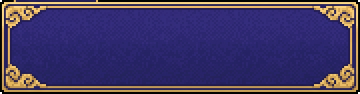
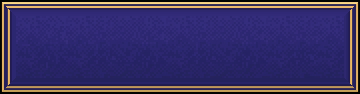
版155 枠の四隅の模様を外す・戦いの札を内側へ

diff --git a/src/scenes/FieldScene.js b/src/scenes/FieldScene.js
@@ -2,37 +2,37 @@
 // 上 y0〜420 に地図（1マス32ドット・旅の者が真ん中、しおりと加わった仲間が1歩ずつうしろに続く）／下の窓に十字キーと「はなす」「どうぐ」
 // 話す・店・宿の文と選びも下の窓（そのあいだ十字キーは隠す）
 // 旅の状態は registry の 'game'（計算は src/field/game.js）。地図が変わる（町に入る・出る）たびに この場面を始め直す
-import { EPISODES } from '../data/episodes.js?v=154';
-import { ITEMS, PRICE, itemNote } from '../data/items.js?v=154';
-import { FISH, PRIZES, ROD_PRICE, BITE_WINDOW_MS, WAIT_MS, rollFish, zoneStart, inZone, rentRod, addCatch, exchange } from '../field/fishing.js?v=154';
-import { RIDERS } from '../data/nomaoi_assets.js?v=154';
-import { FLAGS, FLAG_PRIZES, ENTRY_PRICE, ROUND_MS, CATCH_P, newRace, stepRace, racePts, flagX, fallP, enterRace, addFlags, exchangeFlag } from '../field/nomaoi.js?v=154';
-import { TILE } from '../field/tiles.js?v=154';
-import { GROUNDS, OBJECTS, fieldLook, townLook } from '../field/look.js?v=154';
-import { preloadKit, makeWindow, makeButton, makePad, paginate } from '../ui/kit.js?v=154';
-import { preloadPeople, frameOf, ORIGIN_Y } from '../field/sprites.js?v=154';
-import { TOWNS, TOWN_OF, TOWN_CARD_NAME, townCardName } from '../field/towns.js?v=154';
-import { KANBAN, kanbanAt } from '../field/kanban.js?v=154';
-import { AILMENTS, badgesOf, hpColor } from '../field/ailments.js?v=154';
-import { smooth, BRUSH_FONT } from '../ui/scroll.js?v=154';
+import { EPISODES } from '../data/episodes.js?v=155';
+import { ITEMS, PRICE, itemNote } from '../data/items.js?v=155';
+import { FISH, PRIZES, ROD_PRICE, BITE_WINDOW_MS, WAIT_MS, rollFish, zoneStart, inZone, rentRod, addCatch, exchange } from '../field/fishing.js?v=155';
+import { RIDERS } from '../data/nomaoi_assets.js?v=155';
+import { FLAGS, FLAG_PRIZES, ENTRY_PRICE, ROUND_MS, CATCH_P, newRace, stepRace, racePts, flagX, fallP, enterRace, addFlags, exchangeFlag } from '../field/nomaoi.js?v=155';
+import { TILE } from '../field/tiles.js?v=155';
+import { GROUNDS, OBJECTS, fieldLook, townLook } from '../field/look.js?v=155';
+import { preloadKit, makeWindow, makeButton, makePad, paginate } from '../ui/kit.js?v=155';
+import { preloadPeople, frameOf, ORIGIN_Y } from '../field/sprites.js?v=155';
+import { TOWNS, TOWN_OF, TOWN_CARD_NAME, townCardName } from '../field/towns.js?v=155';
+import { KANBAN, kanbanAt } from '../field/kanban.js?v=155';
+import { AILMENTS, badgesOf, hpColor } from '../field/ailments.js?v=155';
+import { smooth, BRUSH_FONT } from '../ui/scroll.js?v=155';
 import {
   mapRows, terrainAt, canWalk, tileNameAt, DELTA, BOSS_AT, WALL_OPENED_BY, SAVE_KEY, maxOf,
   enterTown, leaveTown, buy, stayInn, save, autoSaveAfterBoss, useItem, walkStep, encounterAt,
   purify, kuyo, returnStolen, HARAI_PRICE, KUYO_PRICE, revive, revivePrice, NAME, nameOf, isField, crossAt, WALL_QUEST_LINES,
-} from '../field/game.js?v=154';
-import { membersOf } from '../battle/levels.js?v=154';
-import { COMPANIONS, LEARN_AFTER_LOSS, KUNOICHI } from '../data/companions.js?v=154';
-import { ICON_IDS } from '../data/icons.js?v=154';
-import { FACE_IDS, KUNOICHI_FACES } from '../data/faces.js?v=154';
-import { EXTRA_LOOKS } from '../data/look_assets.js?v=154';
-import { mapPointOf } from '../field/mapcard.js?v=154';
-import { FISHING_ICON_IDS } from '../data/icons_fishing.js?v=154';
-import { makeRng } from '../battle/rules.js?v=154';
-import { newRun, tapRun, stepRun, runPos, beamX, LANES as KW_LANES, STRIKES as KW_STRIKES, TIME_MS as KW_TIME } from '../field/kagewatari.js?v=154';
-import { EQUIP, SLOTS, SLOT_NAME, equipNote, START_EQUIP, diffNote, diffDown, canWear } from '../data/equip.js?v=154';
-import { buyEquip, partyView, soakOnsen, ONSEN_PRICE, prayGojinka, afterKagewatari } from '../field/game.js?v=154';
-import { sfx, startBgm, stopBgm, playJingle, jingleSeconds } from '../audio/chip.js?v=154';
-import { newRound, tapAt, roundEnd as roundEndAt, roundPts as chochinPts, enterRound, addLanterns, CHOCHIN_PRIZES, exchangeChochin, ENTRY_PRICE as CHOCHIN_PRICE, LANTERNS as CHOCHIN_LANTERNS, BEAT_MS as CHOCHIN_BEAT, OK_MS as CHOCHIN_OK } from '../field/chochin.js?v=154';
+} from '../field/game.js?v=155';
+import { membersOf } from '../battle/levels.js?v=155';
+import { COMPANIONS, LEARN_AFTER_LOSS, KUNOICHI } from '../data/companions.js?v=155';
+import { ICON_IDS } from '../data/icons.js?v=155';
+import { FACE_IDS, KUNOICHI_FACES } from '../data/faces.js?v=155';
+import { EXTRA_LOOKS } from '../data/look_assets.js?v=155';
+import { mapPointOf } from '../field/mapcard.js?v=155';
+import { FISHING_ICON_IDS } from '../data/icons_fishing.js?v=155';
+import { makeRng } from '../battle/rules.js?v=155';
+import { newRun, tapRun, stepRun, runPos, beamX, LANES as KW_LANES, STRIKES as KW_STRIKES, TIME_MS as KW_TIME } from '../field/kagewatari.js?v=155';
+import { EQUIP, SLOTS, SLOT_NAME, equipNote, START_EQUIP, diffNote, diffDown, canWear } from '../data/equip.js?v=155';
+import { buyEquip, partyView, soakOnsen, ONSEN_PRICE, prayGojinka, afterKagewatari } from '../field/game.js?v=155';
+import { sfx, startBgm, stopBgm, playJingle, jingleSeconds } from '../audio/chip.js?v=155';
+import { newRound, tapAt, roundEnd as roundEndAt, roundPts as chochinPts, enterRound, addLanterns, CHOCHIN_PRIZES, exchangeChochin, ENTRY_PRICE as CHOCHIN_PRICE, LANTERNS as CHOCHIN_LANTERNS, BEAT_MS as CHOCHIN_BEAT, OK_MS as CHOCHIN_OK } from '../field/chochin.js?v=155';
 
 // 景品の窓（釣り＝小名浜の釣り番／旗＝雲雀ヶ原の世話役）。同じ窓を 点の名前と景品の表だけ替えて使う
 const PRIZE_SHOPS = {

diff --git a/src/data/episodes.js b/src/data/episodes.js
@@ -1,29 +1,29 @@
 // 遊ぶ順（話数＝順路の順・本人 10/1）。題の画面は先頭の話を出し、勝つと「つぎの話へ」で次へ進む
 // 序章：第一話 松川様 → 第二話 賢沼の大うなぎ → 第三話 蛇岸淵（淵の主）→ 第四話 龍燈
-import { MATSUKAWA } from './matsukawa.js?v=154';
-import { KASHINUMA } from './kashinuma.js?v=154';
-import { JAGAN } from './jagan.js?v=154';
-import { RYUTO } from './ryuto.js?v=154';
+import { MATSUKAWA } from './matsukawa.js?v=155';
+import { KASHINUMA } from './kashinuma.js?v=155';
+import { JAGAN } from './jagan.js?v=155';
+import { RYUTO } from './ryuto.js?v=155';
 // 1章 相馬（10/3）：第五話 ザルカブリ山 → 第六話 大悲山の大蛇 → 第七話 手長明神 → 第八話 虎捕山の白狼（橘墨虎）
-import { ZARUKABURI } from './zarukaburi.js?v=154';
-import { DAIHISAN } from './daihisan.js?v=154';
-import { TENAGA } from './tenaga.js?v=154';
-import { SUMITORA } from './sumitora.js?v=154';
+import { ZARUKABURI } from './zarukaburi.js?v=155';
+import { DAIHISAN } from './daihisan.js?v=155';
+import { TENAGA } from './tenaga.js?v=155';
+import { SUMITORA } from './sumitora.js?v=155';
 // 2章 県北（10/4）：第九話 飴買い幽霊 → 第十話 ご坊狐 → 第十一話 ムカデとオロチ → 第十二話 へっぴり嫁 → 第十三話 安達ヶ原の鬼婆
-import { AMEKAI } from './amekai.js?v=154';
-import { GOBOU } from './gobou.js?v=154';
-import { MUKADE } from './mukade.js?v=154';
-import { HEPPIRI } from './heppiri.js?v=154';
-import { ONIBABA } from './onibaba.js?v=154';
+import { AMEKAI } from './amekai.js?v=155';
+import { GOBOU } from './gobou.js?v=155';
+import { MUKADE } from './mukade.js?v=155';
+import { HEPPIRI } from './heppiri.js?v=155';
+import { ONIBABA } from './onibaba.js?v=155';
 // 3章 県中・県南（10/4）：第十四話 蛇骨地蔵 → 第十五話 三春駒 → 第十六話 大多鬼丸 → 第十七話 和泉式部と猫 → 第十八話 天狗のいけにえ
 //   → 第十九話 狸森の託善和尚 → 第二十話 カッパのわび証文 → 第二十一話 安珍と清姫（本人 10/4「戦わない3話を戦う形で」＝8話とも戦う）
-import { JAKOTSU } from './jakotsu.js?v=154';
-import { MIHARUGOMA } from './miharugoma.js?v=154';
-import { OTAKIMARU } from './otakimaru.js?v=154';
-import { NEKONAKI } from './nekonaki.js?v=154';
-import { TENGU } from './tengu.js?v=154';
-import { TAKUZEN } from './takuzen.js?v=154';
-import { KAPPA } from './kappa.js?v=154';
-import { KIYOHIME } from './kiyohime.js?v=154';
+import { JAKOTSU } from './jakotsu.js?v=155';
+import { MIHARUGOMA } from './miharugoma.js?v=155';
+import { OTAKIMARU } from './otakimaru.js?v=155';
+import { NEKONAKI } from './nekonaki.js?v=155';
+import { TENGU } from './tengu.js?v=155';
+import { TAKUZEN } from './takuzen.js?v=155';
+import { KAPPA } from './kappa.js?v=155';
+import { KIYOHIME } from './kiyohime.js?v=155';
 
 export const EPISODES = [MATSUKAWA, KASHINUMA, JAGAN, RYUTO, ZARUKABURI, DAIHISAN, TENAGA, SUMITORA, AMEKAI, GOBOU, MUKADE, HEPPIRI, ONIBABA, JAKOTSU, MIHARUGOMA, OTAKIMARU, NEKONAKI, TENGU, TAKUZEN, KAPPA, KIYOHIME];

diff --git a/src/scenes/BattleScene.js b/src/scenes/BattleScene.js
@@ -1,16 +1,16 @@
-import { AILMENTS, badgesOf, hpColor, partyStateLines } from '../field/ailments.js?v=154';
-import { EPISODES } from '../data/episodes.js?v=154';
-import { revealAt } from '../ui/reveal.js?v=154';
-import { createBattle, resolveTurn, makeRng } from '../battle/rules.js?v=154';
-import { chooseCommands } from '../battle/auto.js?v=154';
-import { itemNote } from '../data/items.js?v=154';
-import { unlock, isUnlocked, sfx, startBgm, stopBgm, toggleMute, isMuted, playVoice, stopVoice, voiceLevel } from '../audio/chip.js?v=154';
-import { STORY_FILES } from '../data/story_assets.js?v=154';
-import { TITLE_HOLD, TITLE_NO_VOICE } from './_title_consts.js?v=154';
-import { CUTIN_FILES, CUTIN_V } from '../data/cutin_assets.js?v=154';
-import { drawScroll, fitScroll, smooth, BRUSH_FONT } from '../ui/scroll.js?v=154';
-import { preloadKit, makeWindow, makeButton, paginate } from '../ui/kit.js?v=154';
-import { battleData, afterWin, afterLose, afterForcedLose, zakoData, afterZako, BOSS_MON, duelData, afterDuel } from '../field/game.js?v=154';
+import { AILMENTS, badgesOf, hpColor, partyStateLines } from '../field/ailments.js?v=155';
+import { EPISODES } from '../data/episodes.js?v=155';
+import { revealAt } from '../ui/reveal.js?v=155';
+import { createBattle, resolveTurn, makeRng } from '../battle/rules.js?v=155';
+import { chooseCommands } from '../battle/auto.js?v=155';
+import { itemNote } from '../data/items.js?v=155';
+import { unlock, isUnlocked, sfx, startBgm, stopBgm, toggleMute, isMuted, playVoice, stopVoice, voiceLevel } from '../audio/chip.js?v=155';
+import { STORY_FILES } from '../data/story_assets.js?v=155';
+import { TITLE_HOLD, TITLE_NO_VOICE } from './_title_consts.js?v=155';
+import { CUTIN_FILES, CUTIN_V } from '../data/cutin_assets.js?v=155';
+import { drawScroll, fitScroll, smooth, BRUSH_FONT } from '../ui/scroll.js?v=155';
+import { preloadKit, makeWindow, makeButton, paginate } from '../ui/kit.js?v=155';
+import { battleData, afterWin, afterLose, afterForcedLose, zakoData, afterZako, BOSS_MON, duelData, afterDuel } from '../field/game.js?v=155';
 
 // 1つの戦いの画面を、話ごとのデータ（src/data/<話>.js・並びは episodes.js）で使い回す
 // 絵は Gemini で描いて art_src/prep_art.py で整えた物（敵も背景も2倍で見せる）。データの art に置き場と光の色
@@ -260,7 +260,7 @@ export class BattleScene extends Phaser.Scene {
     // 1人ぶんは幅78ドット：名前・HP・術を縦に3段。窓の高さは2人のときと同じ
     const four = this.state.allies.length > 2;
     this.state.allies.forEach((a, i) => {
-      const x = four ? 24 + i * 79 : 28 + i * 164; // 和風の枠の金の線の内側
+      const x = four ? 28 + i * 78 : 30 + i * 164; // 和風の枠の金の線の内側（10/4 夜 本人「旅の者・術が枠に被って見えにくい」＝24→28）
       if (!four) {
         this.nameTexts[a.id] = this.add.text(x, 20, a.name, style(SIZE.name));
         this.statusTexts[a.id] = {

diff --git a/src/field/game.js b/src/field/game.js
@@ -1,18 +1,18 @@
 // 旅の状態（居場所・文・持ち物・仲間の HP・元に戻したボス・記録）。画面と切り離す＝Node で試験する
 // ここの関数は game を書き換えずに、新しい game を返す
-import { IWAKI_ROWS } from './iwaki_map.js?v=154';
-import { kanbanAt } from './kanban.js?v=154';
-import { SOMA_ROWS } from './soma_map.js?v=154';
-import { KENPOKU_ROWS } from './kenpoku_map.js?v=154';
-import { KENCHU_ROWS } from './kenchu_map.js?v=154';
-import { FIELD_TERRAIN, TOWN_TERRAIN } from './tiles.js?v=154';
-import { TOWNS, TOWN_ENTRY } from './towns.js?v=154';
-import { ITEMS, PRICE, OLD_ITEM } from '../data/items.js?v=154';
-import { ZAKO, ZAKO_TELL } from '../data/zako.js?v=154';
-import { statsAt, levelFor, EXP_TO, PARTY_IDS, ALL_IDS, MAX_PARTY, membersOf, statsWithGear } from '../battle/levels.js?v=154';
-import { COMPANIONS, COMPANION_SPELLS, JOIN_AFTER, LEARN_AFTER_LOSS, RETIRED_COMPANIONS, BUSHI, KUNOICHI } from '../data/companions.js?v=154';
-import { EQUIP, START_EQUIP, canWear } from '../data/equip.js?v=154';
-import { becomeKunoichi } from './kagewatari.js?v=154';
+import { IWAKI_ROWS } from './iwaki_map.js?v=155';
+import { kanbanAt } from './kanban.js?v=155';
+import { SOMA_ROWS } from './soma_map.js?v=155';
+import { KENPOKU_ROWS } from './kenpoku_map.js?v=155';
+import { KENCHU_ROWS } from './kenchu_map.js?v=155';
+import { FIELD_TERRAIN, TOWN_TERRAIN } from './tiles.js?v=155';
+import { TOWNS, TOWN_ENTRY } from './towns.js?v=155';
+import { ITEMS, PRICE, OLD_ITEM } from '../data/items.js?v=155';
+import { ZAKO, ZAKO_TELL } from '../data/zako.js?v=155';
+import { statsAt, levelFor, EXP_TO, PARTY_IDS, ALL_IDS, MAX_PARTY, membersOf, statsWithGear } from '../battle/levels.js?v=155';
+import { COMPANIONS, COMPANION_SPELLS, JOIN_AFTER, LEARN_AFTER_LOSS, RETIRED_COMPANIONS, BUSHI, KUNOICHI } from '../data/companions.js?v=155';
+import { EQUIP, START_EQUIP, canWear } from '../data/equip.js?v=155';
+import { becomeKunoichi } from './kagewatari.js?v=155';
 
 export const SAVE_KEY = 'fq-save-v1';
 

diff --git a/src/main.js b/src/main.js
@@ -1,15 +1,15 @@
-import { TitleScene } from './scenes/TitleScene.js?v=154';
-import { BattleScene } from './scenes/BattleScene.js?v=154';
-import { FieldScene, FIELD_TEXT } from './scenes/FieldScene.js?v=154';
-import { ZAKO, ZAKO_TELL } from './data/zako.js?v=154';
-import { HARAI } from './field/game.js?v=154';
-import { EQUIP } from './data/equip.js?v=154';
-import { EPISODES } from './data/episodes.js?v=154';
-import { unlock, isUnlocked } from './audio/chip.js?v=154';
-import { askTerms } from './ui/terms.js?v=154';
-import { watchUpdates, newerOnLaunch, reloadTo } from './ui/update.js?v=154';
-import { showLoading, preloadImages } from './ui/loading.js?v=154';
-import { PRELOAD_ASSETS } from './data/preload_assets.js?v=154';
+import { TitleScene } from './scenes/TitleScene.js?v=155';
+import { BattleScene } from './scenes/BattleScene.js?v=155';
+import { FieldScene, FIELD_TEXT } from './scenes/FieldScene.js?v=155';
+import { ZAKO, ZAKO_TELL } from './data/zako.js?v=155';
+import { HARAI } from './field/game.js?v=155';
+import { EQUIP } from './data/equip.js?v=155';
+import { EPISODES } from './data/episodes.js?v=155';
+import { unlock, isUnlocked } from './audio/chip.js?v=155';
+import { askTerms } from './ui/terms.js?v=155';
+import { watchUpdates, newerOnLaunch, reloadTo } from './ui/update.js?v=155';
+import { showLoading, preloadImages } from './ui/loading.js?v=155';
+import { PRELOAD_ASSETS } from './data/preload_assets.js?v=155';
 
 // 本人 10/2「松川と戦うまで、BGMが無い」＝iPhone は指を置いた瞬間（pointerdown）では音の出口を開けず、指を離した瞬間・クリックで開く
 // ⇒ 画面のどこを さわっても、離した瞬間に音の出口を開け直す（題の画面で一度さわった後だけ。止まっていれば鳴りだす）

diff --git a/src/field/kanban.js b/src/field/kanban.js
@@ -2,10 +2,10 @@
 // 絵＝assets/tiles/o_kanban_<種類>.png（art_src/prep_kanban.py・板は無地）。名前は地図の上に毛筆の字で重ね、看板に向いて「はなす」と短い説明
 // 置き場＝目印（町・地図の口の字、または座標）の隣の草地（.）を、左→右→左下→右下→下→左上→右上→上 の順に探す
 // 説明は確かめた事だけ（10/4 ネットで確かめた：中村城跡に相馬中村神社／小高城は相馬氏の約280年の居城・1611年に中村へ／磐城平城＝平藩／鵜ノ尾埼灯台＝松川浦の岬／霞ヶ城公園＝石垣・さくら名所100選）。三春の滝桜は 3章の地図ができたら足す
-import { IWAKI_ROWS } from './iwaki_map.js?v=154';
-import { SOMA_ROWS } from './soma_map.js?v=154';
-import { KENPOKU_ROWS } from './kenpoku_map.js?v=154';
-import { KENCHU_ROWS } from './kenchu_map.js?v=154';
+import { IWAKI_ROWS } from './iwaki_map.js?v=155';
+import { SOMA_ROWS } from './soma_map.js?v=155';
+import { KENPOKU_ROWS } from './kenpoku_map.js?v=155';
+import { KENCHU_ROWS } from './kenchu_map.js?v=155';
 
 const ROWS = { field: IWAKI_ROWS, soma: SOMA_ROWS, kenpoku: KENPOKU_ROWS, kenchu: KENCHU_ROWS };
 export const KANBAN_KINDS = ['shiro', 'meisho', 'hana', 'michi'];

diff --git a/src/data/miharugoma.js b/src/data/miharugoma.js
@@ -3,7 +3,7 @@
 // 大滝根山の大多鬼丸との戦で押されたとき、どこからか百頭の馬が駆けこんで勝たせ、消えた。箱の木馬は どれも汗でぬれていた。村人が偲んで彫ったのが三春駒
 // ⚠原典には寺の名も僧の名も無い（清水寺・延鎮は工房の由来書き）＝「りっぱな お寺の お坊さま」。⚠田村麻呂がこの地へ来た文献は無い（田村市）＝伝説として語る
 // ゲームでは、忘れられて黒いもやに呑まれ、三春の野を暴れまわる木の馬の群れ。弱点＝「お坊さまの木箱」（馬たちの帰る所）。勝つと三春駒の術（大多鬼丸の弱点）を授かり、大滝根山への もやが晴れる
-import { BASIC_ITEMS } from './basic_items.js?v=154';
+import { BASIC_ITEMS } from './basic_items.js?v=155';
 
 export const MIHARUGOMA = {
   art: {

diff --git a/src/data/otakimaru.js b/src/data/otakimaru.js
@@ -3,7 +3,7 @@
 // 大滝根山の鬼穴を根城にした大多鬼丸を、坂上田村麻呂が討つ。白鳥の導きで洞穴に追い込まれ、大多鬼丸は果てた。田村麻呂は その武勇を惜しみ、首を仙台平に丁重に葬った
 // ⭐市は二つの見方を並べる（賊・鬼の首領／七里ヶ沢を平和に治め、朝廷の求めを断った豪族）＝悪鬼として一方的に描かない。⭐「田村麻呂がこの地へ来た文献は無い」（市）＝伝説として語る
 // ゲームでは、忘れられて黒いもやに呑まれた大滝根山の主。弱点＝三春で授かる「三春駒」（第十五話・田村麻呂を助けた木の馬百頭）
-import { BASIC_ITEMS } from './basic_items.js?v=154';
+import { BASIC_ITEMS } from './basic_items.js?v=155';
 
 export const OTAKIMARU = {
   art: {

diff --git a/src/data/daihisan.js b/src/data/daihisan.js
@@ -5,7 +5,7 @@
 // ゲームでは、忘れの力でよみがえった大蛇。弱点＝「鉄の釘」。助っ人＝玉都（本人 10/3「戦いの中で琵琶を弾く助っ人」）＝語って弱点が明かされると
 // 琵琶が鳴り、大蛇は聞き入って2回動けない。その後も ときどき琵琶で止める
 // 絵＝10/3 届いた（2noh3h 大蛇・xf4m56 封じられた姿）。必殺技の挿絵＝描き直し（貼り付け・使用済み_絵／大悲山_大雨_描き直し_貼り付け.jpg。1回目 vxa4qk は封じられた姿と山高帽で描かれた）。背景も届いた。プロンプト＝art_src/Geminiプロンプト_1章相馬.md
-import { BASIC_ITEMS } from './basic_items.js?v=154';
+import { BASIC_ITEMS } from './basic_items.js?v=155';
 
 export const DAIHISAN = {
   art: {

diff --git a/src/data/heppiri.js b/src/data/heppiri.js
@@ -5,7 +5,7 @@
 // 必殺技は「すごいおなら」（本人 10/1「おなら」→10/4「おおきな屁」→同日「すごいおなら」・おならの効果音・くらうと全員しばらく気絶）。⛔下品に振れさせない（音・臭いを書かない。可笑しみは真面目に語ることから）・子ども向けの絵柄に寄せない
 // ゲームでは、忘れられて黒いもやに呑まれた嫁。弱点＝「迎えの言葉」（遠慮は いらんよ）。倒すと元に戻り、二本松への道の大岩を吹き飛ばす
 // 絵＝まだ（仮に道中の娘の絵）。プロンプト＝art_src/Geminiプロンプト_2章県北.md
-import { BASIC_ITEMS } from './basic_items.js?v=154';
+import { BASIC_ITEMS } from './basic_items.js?v=155';
 
 export const HEPPIRI = {
   art: {

diff --git a/src/scenes/TitleScene.js b/src/scenes/TitleScene.js
@@ -1,7 +1,7 @@
-import { unlock, startBgm, stopBgm, sfx } from '../audio/chip.js?v=154';
-import { BRUSH_FONT, smooth } from '../ui/scroll.js?v=154';
-import { newGame, load, SAVE_KEY } from '../field/game.js?v=154';
-import { preloadKit, makeWindow } from '../ui/kit.js?v=154';
+import { unlock, startBgm, stopBgm, sfx } from '../audio/chip.js?v=155';
+import { BRUSH_FONT, smooth } from '../ui/scroll.js?v=155';
+import { newGame, load, SAVE_KEY } from '../field/game.js?v=155';
+import { preloadKit, makeWindow } from '../ui/kit.js?v=155';
 
 // 題の画面（本人 10/1「さわってはじめる、から音楽が欲しい」）
 // ⭐10/3 本人「アイコンクリック後、『はじめから』『つづきから』を加えてほしい」＝下に2つの札。押した札で始まる（1回で）

diff --git a/src/data/kappa.js b/src/data/kappa.js
@@ -3,7 +3,7 @@
 // 馬のしっぽにぶら下がっていたカッパの大将を地べたに叩きつけて捕らえ、「人や馬にいたずらをしない」「大水を出して田畑を荒らさない」を石に証文として書かせて許した。
 // 証文は丘に埋めて杉を植え、不開（あかず）神社と名づけた＝いまの赤津神社の由来。⚠頭の皿・きゅうりは この原典に無い
 // ゲームでは、忘れられて黒いもやに呑まれたカッパの大将。弱点＝「石の証文」。⭐託善和尚（第十九話）を元に戻していると、証文が もっと効く（hint）
-import { BASIC_ITEMS } from './basic_items.js?v=154';
+import { BASIC_ITEMS } from './basic_items.js?v=155';
 
 export const KAPPA = {
   art: {
